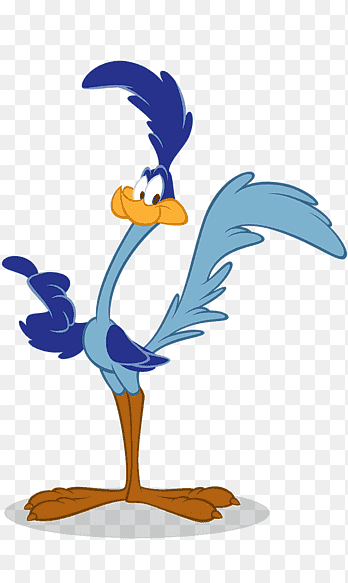
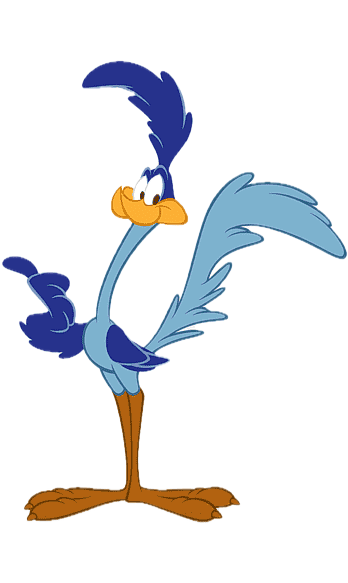
better iconography

diff --git a/actes/acte_02.tex b/actes/acte_02.tex
@@ -476,6 +476,7 @@ D’irrésistibles effluves de coulis (colis, coulis, certains mots tissent entr
   \bwimage[width=\linewidth]{acte_02_note_035_sherlock-holmes.jpg}\\[0.2em]
   {\scriptsize\itshape Sherlock Holmes}
 \end{wrapfigure}Pas besoin d’avoir un nez crochu, fumer la pipe et s’appeler Sherlock Holmes\nf{Sherlock Holmes, détective fictif créé par Arthur Conan Doyle, apparu pour la première fois dans \textit{Une étude en rouge} (1887). Célèbre pour ses méthodes déductives, son imperméable, sa pipe et son adresse au 221B Baker Street à Londres.\source{fr.wikipedia.org/wiki/Sherlock\_Holmes}} pour comprendre que la maîtresse des lieux était en train de concocter sa légendaire sauce bolognaise, une sauce dans laquelle elle mettait, outre ses talents culinaires, tout son amour et sa sensualité. Je suis aussitôt allé lui présenter mes salutations respectueuses, laissant discrètement pendre ma langue pour signifier que le pauvre célibataire que j’étais n’avait rien à manger dans son frigo, ce qui n’était pas totalement faux.
+\iconographietex{figures/spenser_fig.tex}
 
 \textsc{Titus}, qui connaissait le langage des langues pendantes, a proposé : Tu mangeras bien avec nous.
 
@@ -489,7 +490,7 @@ J’ai ajouté : Je crois que si je devais n’emporter qu’une seule chose sur
 
 J’exagérais sans doute un peu, mais le fait est qu’entre ça et les œuvres complètes du grand poète élisabéthain Edmund Spenser\nf{Edmund Spenser (vers 1552--1599), poète anglais de la période élisabéthaine, auteur de \textit{La Reine des fées} (\textit{The Faerie Queene}, 1590--1596), vaste épopée allégorique en douze livres projetés dédiée à la reine Élisabeth I\textsuperscript{re}. Il est considéré comme le «~prince des poètes~» de la Renaissance anglaise. \source{en.wikipedia.org/wiki/Edmund\_Spenser}}, pour lequel j’ai pourtant une admiration sans bornes (je pense notamment à son chef-d’œuvre La Reine des fées\nf{\textit{La Reine des fées} (\textit{The Faerie Queene}), poème épique allégorique d’Edmund Spenser publié en deux parties (1590 et 1596), constitué de six livres achevés sur douze projetés. Chaque livre met en scène un chevalier incarnant une vertu morale, dans un univers inspiré de l’Arioste et de la chevalerie arthurienne.\source{fr.wikipedia.org/wiki/La\_Reine\_des\_fées}}), je n’aurais pas hésité pas un seul instant.
 
-Titus, qui n’attendait que ça, s’est précipité à la cave (on aurait dit le piaf dans Bip Bip et Vil Coyote) pour en revenir quelques fractions de seconde plus tard en compagnie de deux fiasques de Chianti Rodolfo Dragone, un breuvage pour lequel il affichait une appétence proche de l’addiction. Moi un peu moins, étant donné son acidité décapante, mais je comptais sur la cuisine de Bérénice pour atténuer le feu qui ne manquerait pas de me déchirer les entrailles après quelques verres de cette piquette machiavélique. Quant à Titus, sa corpulence de gorille des montagne s’accompagnait d’une résistance hors du commun à l’alcool. Il aurait pu avaler les deux fiasques cul sec sans ressentir la moindre trace d’ébriété, alors que des gens normaux comme vous et moi n’auraient pas survécu à l’ingestion de la première. Après être passés par toutes les couleurs de l’arc-en-ciel, nous nous serions effondrés comme des masses pour ne plus jamais refaire surface. Eh oui, la vie n’est pas juste, car si nous ressentons tous les effets délétères de la soif ou la désespérance, nous ne sommes pas tous égaux devant l’alcool.
+Titus, qui n’attendait que ça, s’est précipité à la cave (on aurait dit le piaf dans Bip Bip\nf{Bip Bip (Road Runner en version originale) est un personnage de dessin animé de la série Looney Tunes dans la série d'épisodes Bip Bip et Vil Coyote, créé par Chuck Jones, en 1948. C'est un oiseau du désert (un Grand Géocoucou), connu pour être extrêmement rapide à la course.} et Vil Coyote\nf{Vil Coyote (Wile E. Coyote en version originale, E. pour Ethelbert) est un personnage de dessin animé. Quasiment toujours à la poursuite de Bip Bip, il a, au cours des 43 films où il est apparu, inventé de multiples outils servant à bâtir des pièges pour attraper sa proie.}) pour en revenir quelques fractions de seconde plus tard en compagnie de deux fiasques de Chianti Rodolfo Dragone, un breuvage pour lequel il affichait une appétence proche de l’addiction. Moi un peu moins, étant donné son acidité décapante, mais je comptais sur la cuisine de Bérénice pour atténuer le feu qui ne manquerait pas de me déchirer les entrailles après quelques verres de cette piquette machiavélique. Quant à Titus, sa corpulence de gorille des montagne s’accompagnait d’une résistance hors du commun à l’alcool. Il aurait pu avaler les deux fiasques cul sec sans ressentir la moindre trace d’ébriété, alors que des gens normaux comme vous et moi n’auraient pas survécu à l’ingestion de la première. Après être passés par toutes les couleurs de l’arc-en-ciel, nous nous serions effondrés comme des masses pour ne plus jamais refaire surface. Eh oui, la vie n’est pas juste, car si nous ressentons tous les effets délétères de la soif ou la désespérance, nous ne sommes pas tous égaux devant l’alcool.
 
 Vers minuit, soit deux fiasques de Rodolfo Dragone plus tard (finalement pas si mauvais ; les premiers verres sont un peu raides, je vous le concède, mais avec un peu de persévérance on finit par lui découvrir des mérites insoupçonnés), Paul et Virginie (respectivement 14 et 16 ans pour celles et ceux que ça intéresse) avaient regagné leurs chambres depuis longtemps, la compagnie des adultes n’étant pour eux qu’une péripétie assez désagréable à laquelle il convenait de se soustraire au plus vite. Bérénice, sans doute soucieuse d’en apprendre un peu plus sur nos projets et s’assurer qu’on n’allait pas faire de connerie majeure dès qu’elle aurait le dos tourné, nous avait tenu la jambe un peu plus longtemps avant de tirer sa révérence, vaincue par nos blagues graveleuses de mâles alpha et nos itérations inflexibles concernant le secret professionnel et le fait que moins on en sait mieux on se porte.
 
@@ -503,7 +504,11 @@ Eh bien, même si je n’étais pas censé répondre à cette question, le fait 
 
 Et alors ?
 
-Alors rien. Simplement, certaines affaires se traitent dans la pénombre plutôt que la lumière aveuglante des projecteurs. Il se trouvait que Titus et moi-même, sans être des agents secrets à part entière, devions parfois remplir des missions officiellement inexistantes en dehors de nos heures de travail. Rien, pas même le Chianti ou les somptueux spaghetti bolognaise dont elle venait de nous régaler, ne serait de nature à nous délier la langue. Même sous la torture, par exemple si on nous avait agrafé les paupières et obligés à regarder en boucle Super Mario Bros.\nf{\textit{Super Mario Bros.} (1993), film de science-fiction réalisé par Rocky Morton et Annabel Jankel, adaptation du jeu vidéo de Nintendo. Avec Bob Hoskins et Dennis Hopper, il fut un échec commercial et critique retentissant, régulièrement cité parmi les pires adaptations de jeux vidéo. \source{fr.wikipedia.org/wiki/Super\_Mario\_Bros.\_(film)}} de Rocky Morton et Annabel Jankel, jamais, je dis bien jamais, même si après vingt-quatre heures non-stop de Super Mario Bros. il avait fallu s’enquiller tous les pires films d’exploitation du cinéma pré-code hollywoodien, comme par exemple l’histoire tragique de cette secrétaire devenue pute dans Safe in Hell de William Wellman, jamais nous n’aurions livré la moindre information concernant une affaire en cours.
+Alors rien. Simplement, certaines affaires se traitent dans la pénombre plutôt que la lumière aveuglante des projecteurs. Il se trouvait que Titus et moi-même, sans être des agents secrets à part entière, devions parfois remplir des missions officiellement inexistantes en dehors de nos heures de travail. Rien, pas même le Chianti ou les somptueux spaghetti bolognaise dont elle venait de nous régaler, ne serait de nature à nous délier la langue. \begin{wrapfigure}{l}{0.4\textwidth}
+  \centering
+  \bwimage[width=\linewidth]{acte_02_note_40_super-mario-bros.jpg}\\[0.2em]
+  {\scriptsize\itshape Super Mario Bros. (film)}
+\end{wrapfigure} Même sous la torture, par exemple si on nous avait agrafé les paupières et obligés à regarder en boucle Super Mario Bros.\nf{\textit{Super Mario Bros.} (1993), film de science-fiction réalisé par Rocky Morton et Annabel Jankel, adaptation du jeu vidéo de Nintendo. Avec Bob Hoskins et Dennis Hopper, il fut un échec commercial et critique retentissant, régulièrement cité parmi les pires adaptations de jeux vidéo. \source{fr.wikipedia.org/wiki/Super\_Mario\_Bros.\_(film)}} de Rocky Morton et Annabel Jankel, jamais, je dis bien jamais, même si après vingt-quatre heures non-stop de Super Mario Bros. il avait fallu s’enquiller tous les pires films d’exploitation du cinéma pré-code hollywoodien, comme par exemple l’histoire tragique de cette secrétaire devenue pute dans Safe in Hell de William Wellman, jamais nous n’aurions livré la moindre information concernant une affaire en cours.
 
 Et non, Bérénice, je suis désolé mais le monde n’est pas qu’un parc d’attraction peuplé de mascottes inoffensives et surdimensionnées qui font le bonheur des petits et des grands, le tout sur fond de musique de fête foraine affligeante et odeurs poisseuses de barbe à papa. Derrière les masques souriants se dissimulent des grimaces de super-vilains qui n’attendent qu’une occasion de faire régner la terreur sur terre. Et il se trouve, par le plus grand des hasards, que Titus et moi sommes précisément chargés, sinon de mettre un terme définitif à leurs agissements, au moins de modérer leurs ardeurs.
 
@@ -591,11 +596,12 @@ Le mort était déjà mort et re-mort, mais peu importe, je lui ai logé quelque
 
 Je me suis demandé si les comportements irrationnels dont il nous arrivait de faire preuve n’expliquaient pas en grande partie le parcours chaotique de notre espèce sur terre, lequel parcours, à force de cahoter, risquait de finir par se casser la gueule pour de bon. C’était le genre de fulgurance molle du genou qui me traversait parfois l’esprit, au plus fort de la nuit, surtout quand je m’apprêtais à faire cramer quelqu’un dans le coffre d’une bagnole. Il y a soixante-six millions d’années (à quelques mois près), un caillou (un gros, très gros caillou, d’une dizaine de kilomètres de diamètre) en provenance de Jupiter s’est écrasé sur le Yucatan\nf{Le cratère de Chicxulub, situé dans la péninsule du Yucatan (Mexique), résulte de l’impact d’un astéroïde d’environ dix kilomètres de diamètre il y a 66 millions d’années. D’un diamètre de 180~km, il est l’une des plus grandes structures d’impact connues sur Terre et est associé à l’extinction massive de la fin du Crétacé (dite extinction K-Pg), qui emporta notamment les dinosaures non aviens.\source{fr.wikipedia.org/wiki/Cratère\_de\_Chicxulub}}, creusant un trou de cent kilomètres de diamètre par trente de profondeur, de quoi envoyer assez de cochonneries dans l’atmosphère pour soumettre la planète à une série d’évènements climatiques dévastateurs tels que : effet de gril dans un premier temps, avec flambée des températures et retombées de particules incandescentes qui crament tout sur leur passage, puis formation d’un écran de poussières toxiques en haute atmosphère qui plonge la planète dans le froid et les ténèbres pendant des décennies, le tout suivi d’une remontée brutale des températures due à la présence massive de gaz à effet de serre.
 
+\iconographietex{figures/dinosaures_fig.tex}
 En gros, tout ce qui vit à la surface passe à la trappe, à commencer par nos bons gros vieux dinosaures qui s’ébrouaient tranquillement à la surface du globe. Voilà comment, alors que ça n’a aucun rapport direct avec l’histoire qui nous occupe, il m’arrive de songer à ce qui serait advenu si l’astéroïde avait raté sa cible et l’extinction K-T\nf{L’extinction Crétacé-Paléogène (anciennement dite K-T, de l’allemand \textit{Kreide-Tertiär}), survenue il y a environ 66 millions d’années, est l’une des cinq grandes extinctions de masse de l’histoire de la Terre. Elle aurait été causée par l’impact de l’astéroïde de Chicxulub (diamètre estimé : 10--15~km) au Yucatán, combiné à une intense activité volcanique. Environ 75~\% des espèces disparurent, dont tous les dinosaures non aviens.\source{fr.wikipedia.org/wiki/Extinction\_Crétacé-Paléogène}} n’avait jamais eu lieu. Peut-être que les dinosaures seraient toujours parmi nous et qu’on pourrait aujourd’hui se balader avec un Tricératops\nf{Le \textit{Triceratops}, dinosaure cératopsien herbivore du Crétacé supérieur (Amérique du Nord, il y a environ 68--66 millions d'années), se distingue par ses trois cornes et son large bouclier crânien. L'un des derniers grands dinosaures non aviens avant l'extinction K-Pg.\source{fr.wikipedia.org/wiki/Triceratops}} ou un T.~rex\nf{Le \textit{Tyrannosaurus rex} (T.~rex), dinosaure théropode carnivore du Crétacé supérieur (Amérique du Nord, il y a environ 68--66 millions d'années), l'un des plus grands prédateurs terrestres ayant jamais existé. Son crâne pouvait atteindre 1,5~m de long et sa morsure est la plus puissante connue parmi les animaux terrestres.\source{fr.wikipedia.org/wiki/Tyrannosaurus}} miniature en laisse en guise d’animal de compagnie. On se demande aussi pourquoi Asteriornis maastrichtensis\nf{\textit{Asteriornis maastrichtensis}, oiseau fossile du Crétacé supérieur (il y a environ 66,7 millions d’années), découvert en Belgique et décrit en 2020. Considéré comme l’un des plus anciens représentants connus du groupe des oiseaux modernes (Neornithes), il présente des affinités avec les galliformes et les ansériformes.\source{fr.wikipedia.org/wiki/Asteriornis}}, sorte de poulet préhistorique qui hantait les basses-cours du Crétacé, ou encore Vegavis iaai\nf{\textit{Vegavis iaai}, oiseau fossile du Crétacé supérieur (il y a environ 66--68 millions d’années), découvert sur l’île Vega en Antarctique. L’un des plus anciens ansériformes connus, prouvant que certains groupes d’oiseaux modernes existaient avant l’extinction K-Pg.\source{fr.wikipedia.org/wiki/Vegavis}}, sympathique canard dont les restes vieux de soixante-dix millions d’années ont été retrouvés au nord de la terre de Graham\nf{La terre de Graham, péninsule septentrionale de l’Antarctique, s’étend vers l’Amérique du Sud. Elle est administrée par le Royaume-Uni (territoire britannique d’outre-mer de Géorgie du Sud et des îles Sandwich du Sud) et revendiquée par l’Argentine et le Chili.\source{fr.wikipedia.org/wiki/Terre\_de\_Graham}}, dans l’Antarctique, ont survécu alors qu’ils n’avaient à priori aucun endroit où se cacher, contrairement à celles et ceux qui pouvaient se réfugier dans les profondeurs de la terre ou la mer. Ce séisme a-t-il eu une influence directe sur l’Évolution au point que sans lui, par exemple, l’espèce humaine n’aurait jamais vu le jour ? Aux dernières nouvelles, après Morotopithecus bishopi\nf{\textit{Morotopithecus bishopi}, hominoïde fossile découvert en Ouganda, daté d’environ 20 millions d’années. Considéré comme l’un des plus anciens grands singes connus, il présente une colonne vertébrale adaptée à la station verticale, suggérant une locomotion arboricole évoluée.\source{fr.wikipedia.org/wiki/Morotopithecus}} en Ouganda et Nyanzapithecus alesi\nf{\textit{Nyanzapithecus alesi}, hominoïde fossile découvert au Kenya en 2016, daté d’environ 13 millions d’années. Son crâne remarquablement bien conservé en fait l’un des plus anciens ancêtres connus de la lignée des grands singes et de l’Homme.\source{fr.wikipedia.org/wiki/Nyanzapithecus}} au Kenya, Archicebus achilles\nf{\textit{Archicebus achilles}, primate fossile découvert en Chine, daté d’environ 55 millions d’années. Avec ses 20 à 30~g, il est le plus ancien et le plus petit primate connu, constituant un chaînon essentiel dans la compréhension de l’origine des primates.\source{fr.wikipedia.org/wiki/Archicebus\_achilles}}, un singe chinois de cinquante-cinq millions d’années à peine plus gros qu’une souris, est ce qui se fait de plus vieux en matière de primate. Peut-être que toute cette joyeuse bande de primates n’aurait jamais vu le jour sans l’astéroïde de Chicxulub.
 
-\begin{wrapfigure}{r}{0.33\textwidth}
+\begin{wrapfigure}{r}{0.5\textwidth}
   \centering
-  \bwimage[width=\linewidth]{acte_02_note_052_ovis-shantungensis.jpeg}\\[0.2em]
+  \bwimage[width=\linewidth]{acte_02_note_054_ovis-shantungensis.jpeg}\\[0.2em]
   {\scriptsize\itshape Ovis shantungensis}
 \end{wrapfigure}
 Ce qui pose la question suivante : l’Évolution a-t-elle un plan de carrière, prévoyant à court ou moyen terme l’émergence de telle ou telle espèce ? Est-ce que, quoi qu’il arrive, nous devons nécessairement passer par ici pour en arriver là ? Fascinant, non ? Oui, mais aussi complètement chiant, raison pour laquelle je vous propose de retourner sans plus tarder à nos moutons, lesquels, je le rappelle en passant, descendent tous du Mouflon oriental, lui-même descendant du Mouflon chinois Ovis shantungensis\nf{\textit{Ovis shantungensis}, mouflon fossile du Pléistocène originaire de Chine du Nord, considéré comme l'ancêtre probable des moutons domestiques (\textit{Ovis aries}) et de plusieurs espèces de mouflons actuels.\source{species.wikimedia.org/wiki/Ovis\_shantungensis}}, ce qui ne nous rajeunit pas.
@@ -613,11 +619,11 @@ Adieu Giulietta, belle italienne aux formes arrondies et courbes affriolantes, t
 \vfill
 \noindent
 \begin{minipage}[t]{0.48\textwidth}
-  \bwimage[width=\linewidth]{acte_02_note_054_la-proie-des-vautours.jpg}
+  \bwimage[width=\linewidth]{acte_02_note_056_la-proie-des-vautours.jpg}
 \end{minipage}
 \hfill
 \begin{minipage}[t]{0.48\textwidth}
   \raggedleft
-  \bwimage[width=\linewidth]{acte_02_note_056_la-comtesse-de-hong-kong.jpg}
+  \bwimage[width=\linewidth]{acte_02_note_058_la-comtesse-de-hong-kong.jpg}
 \end{minipage}
 

diff --git a/figures/spenser_fig.tex b/figures/spenser_fig.tex
@@ -1,0 +1,46 @@
+\noindent\begin{minipage}[t][\textheight][s]{\textwidth}
+\begin{center}
+
+  % --- top row: H=0.30\textheight, AR hydra=1.243 alien=0.663 ---
+  \begin{minipage}[t]{0.5\textwidth}
+    \begin{flushleft}
+      \bwimage[height=0.40\textheight]{acte_02_note_036_edmund-spenser_2.jpg}\\[0.3em]
+      \centering
+      {\figcaptionname\itshape Edmund Spenser}\\
+      {\figcaptiondetail 1552 - 1599}
+    \end{flushleft}
+  \end{minipage}
+  \hfill
+  \begin{minipage}[t]{0.4\textwidth}
+    \begin{flushright}
+      \bwimage[height=0.4\textheight]{acte_02_note_037_la-reine-des-fees.jpg}\\[0.3em]
+      \centering
+      {\figcaptionname\itshape La Reine des fées}\\
+      {\figcaptiondetail 1590}
+    \end{flushright}
+  \end{minipage}
+
+\end{center}
+
+\begin{center}
+
+  % --- bottom row: H=0.22\textheight, AR smaug=1.413 godzilla=1.294 ---
+  \begin{minipage}[t]{0.49\textwidth}
+    \begin{flushleft}
+      \bwimage[height=0.29\textheight]{acte_02_note_39_wile-e-coyote.png}\\[0.3em]
+      {\figcaptionname\itshape Vil Coyote}\\
+    \end{flushleft}
+  \end{minipage}
+  \hfill
+  \begin{minipage}[t]{0.49\textwidth}
+    \begin{flushright}
+      \bwimage[height=0.29\textheight]{acte_02_note_38_bip-bip.png}\\[0.3em]
+      {\figcaptionname\itshape Bip Bip}\\
+    \end{flushright}
+  \end{minipage}
+
+\end{center}
+
+\vfill
+
+\end{minipage}

diff --git a/figures/dinosaures_fig.tex b/figures/dinosaures_fig.tex
@@ -1,0 +1,43 @@
+\noindent\begin{minipage}[t][\textheight][s]{\textwidth}
+\begin{center}
+
+  \begin{minipage}[t][0.33\textheight][t]{0.7\textwidth}
+    \centering
+    \bwimage[height=0.4\textheight]{acte_02_note_046_triceratops.jpg}
+    {\figcaptionname\itshape Triceratops}
+    \vfill
+  \end{minipage}
+  \hfill
+  \begin{minipage}[t][0.33\textheight][t]{0.2\textwidth}
+    \centering
+    \bwimage[height=0.15\textheight]{acte_02_note_049_vegavis.jpg}
+    {\figcaptionname\itshape Vegavis iaai}
+    \vfill
+  \end{minipage}
+
+\end{center}
+
+\begin{center}
+  
+  % --- bottom row: H=0.22\textheight, AR smaug=1.413 godzilla=1.294 ---
+  \begin{minipage}[t]{0.2\textwidth}
+    \begin{flushleft}
+      \centering
+      {\figcaptionname\itshape Asteriornis maastrichtensis}\\[0.3em]
+      \bwimage[height=0.15\textheight]{acte_02_note_048_asteriornis_2.png}
+    \end{flushleft}
+  \end{minipage}
+  \hfill
+  \begin{minipage}[t]{0.7\textwidth}
+    \begin{flushright}
+      \centering
+      {\figcaptionname\itshape Tyrannosaurus rex}\\[0.3em]
+      \bwimage[height=0.4\textheight]{acte_02_note_047_tyrannosaurus-grayscale.png}
+    \end{flushright}
+  \end{minipage}
+
+\end{center}
+
+\vfill
+
+\end{minipage}

diff --git a/figures/dinosaures.tex b/figures/dinosaures.tex
@@ -1,0 +1,1 @@
+\def\figname{dinosaures}\input{figure.tex}

diff --git a/figures/spenser.tex b/figures/spenser.tex
@@ -1,0 +1,1 @@
+\def\figname{spenser}\input{figure.tex}
